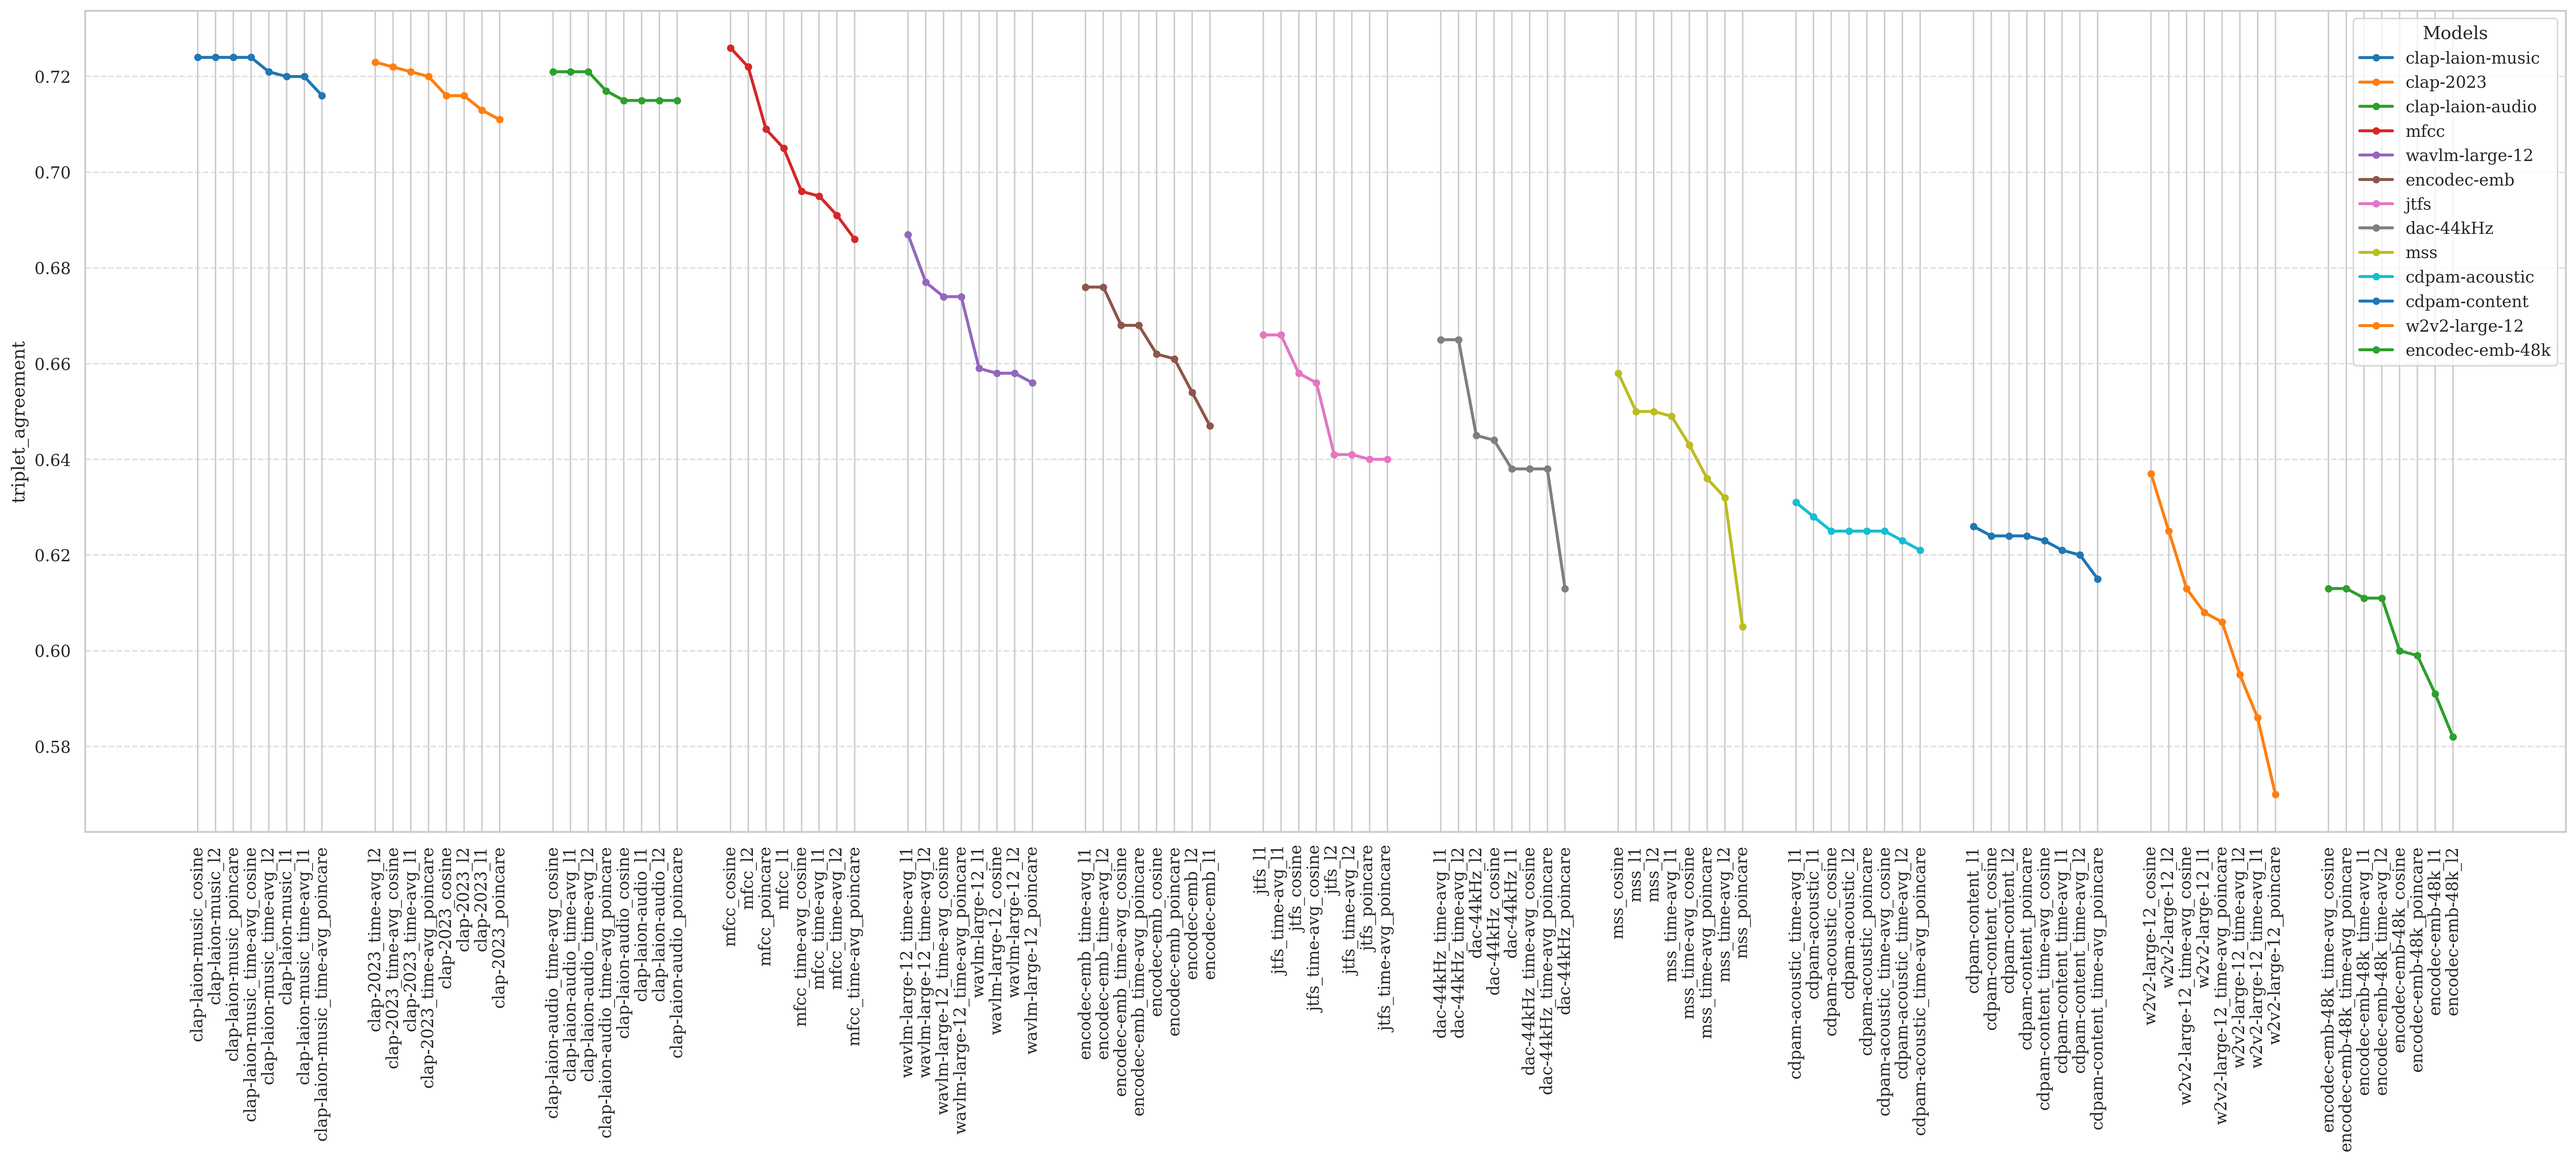
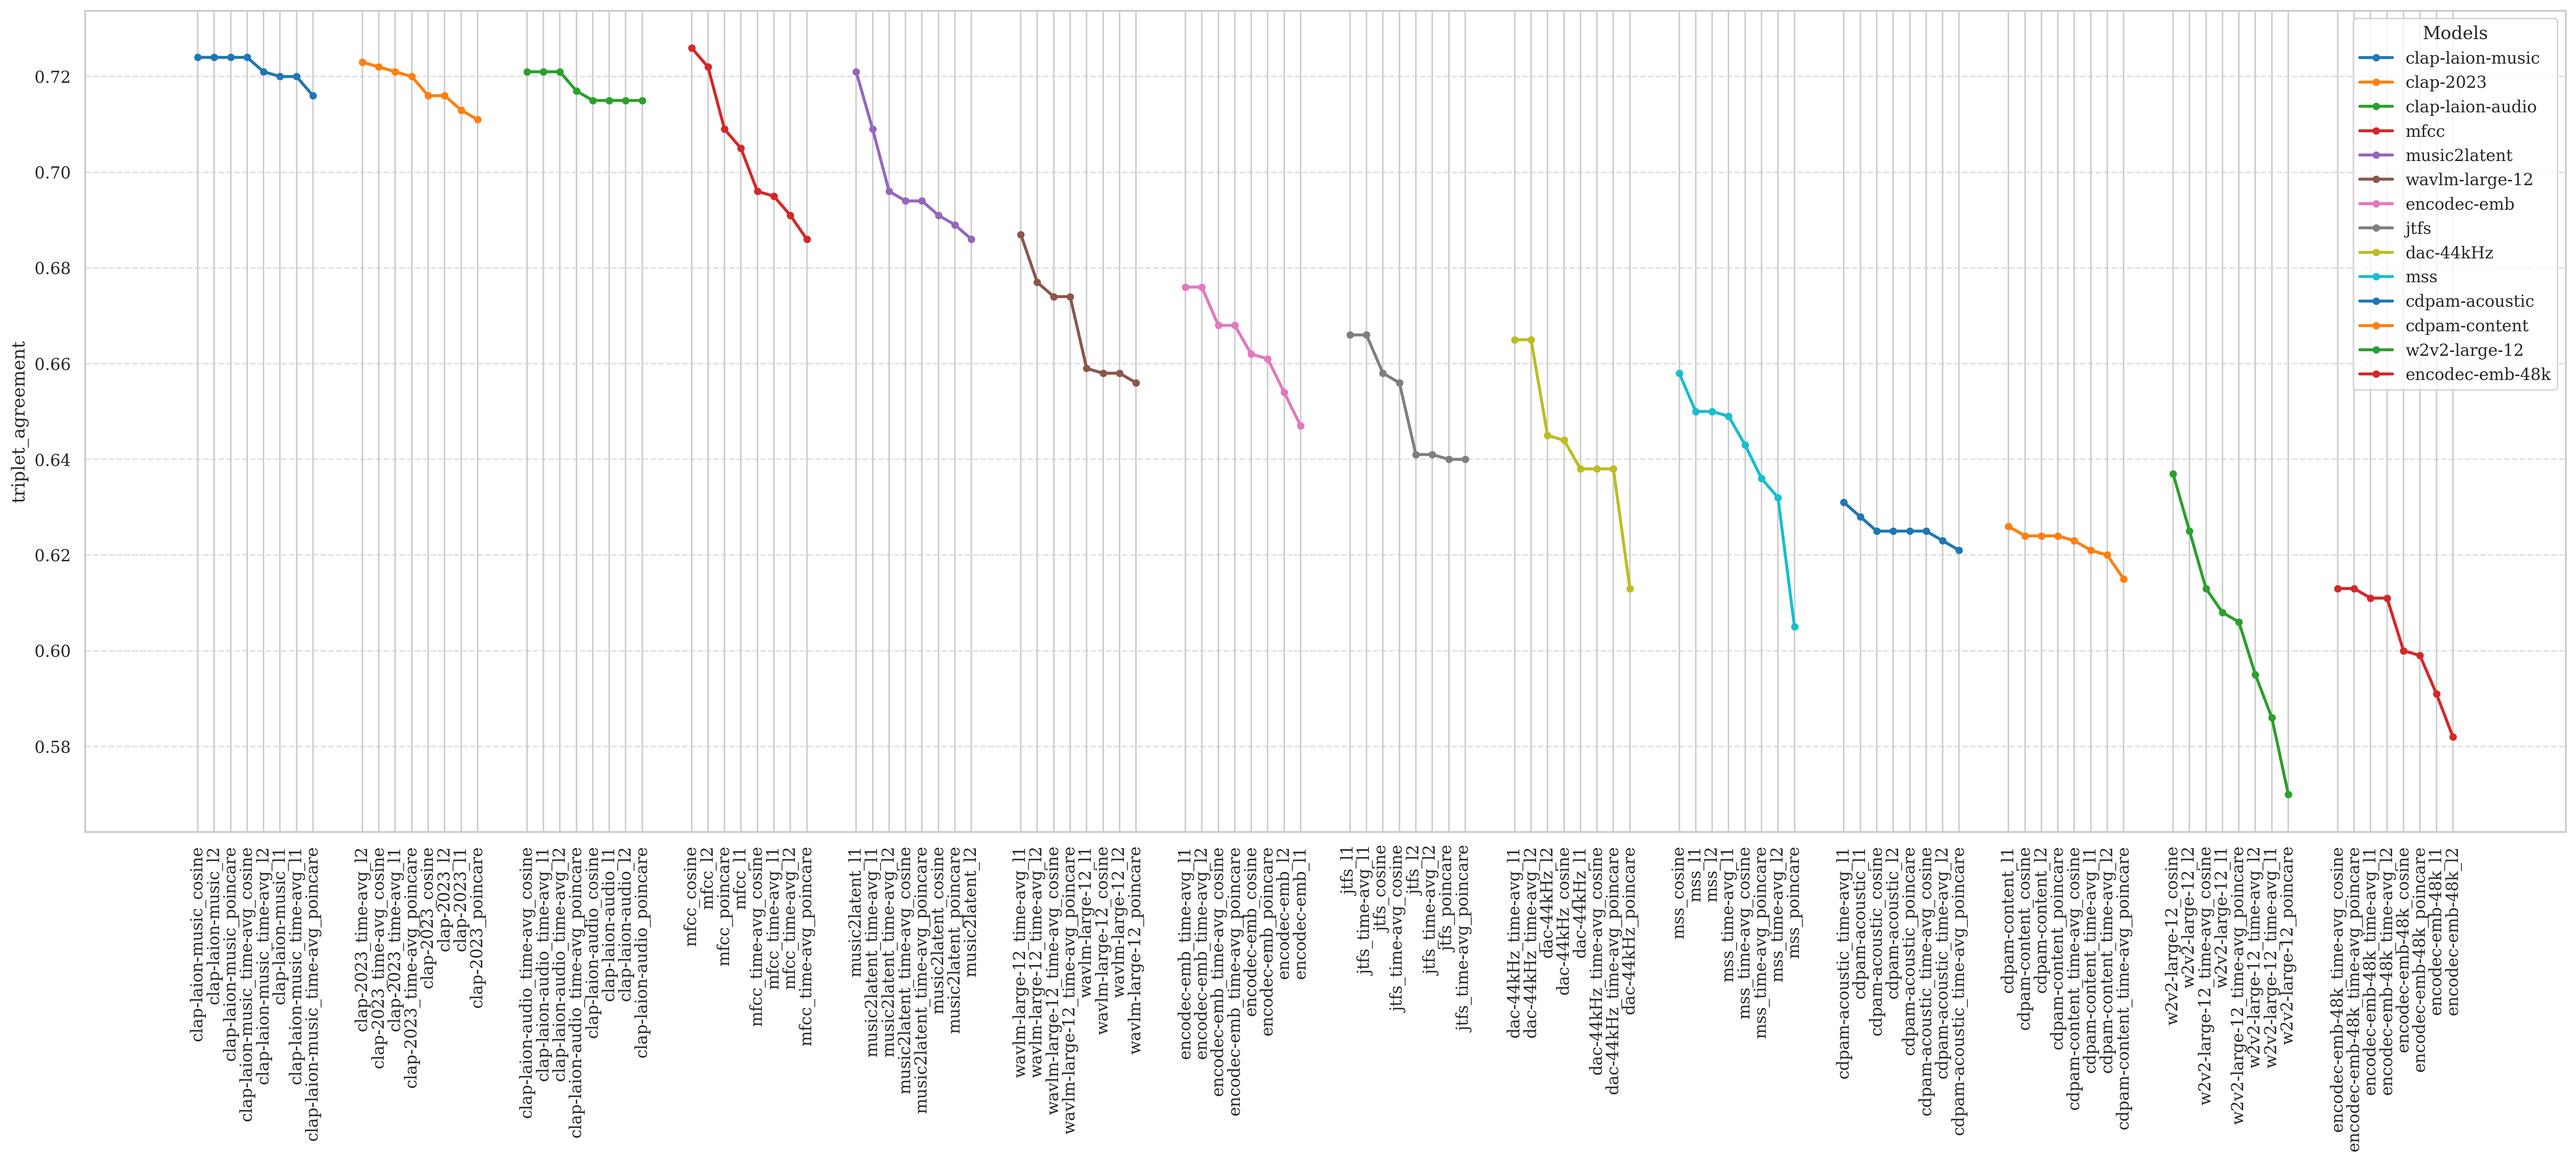
fix bugs, add music2latent eval

Changed region(s): [[0.0624, 0.0, 0.9985, 0.9673]]

diff --git a/timbremetrics/utils.py b/timbremetrics/utils.py
@@ -58,27 +58,27 @@ class AudioLoader:
             audio_dataset.append(
                 {"file": audio_file, "audio": audio, "sample_rate": sr}
             )
-            if self.pad_to_max_duration:
-                assert self.fixed_duration is None
-                max_sample_num = max([x["audio"].shape[-1] for x in audio_dataset])
-                for x in audio_dataset:
-                    padding = max_sample_num - x["audio"].shape[-1]
-                    if isinstance(x["audio"], torch.Tensor):
-                        x["audio"] = F.pad(x["audio"], (0, padding))
-                    elif isinstance(x["audio"], np.ndarray):
-                        assert self.fadtk_model is not None
-                        pad_width = [(0, 0)] * (x["audio"].ndim - 1) + [(0, padding)]
-                        x["audio"] = np.pad(x["audio"], pad_width)
-                    else:
-                        assert self.fadtk_model is not None
-                        # for descript audio codec
-                        from audiotools import AudioSignal
+        if self.pad_to_max_duration:
+            assert self.fixed_duration is None
+            max_sample_num = max([x["audio"].shape[-1] for x in audio_dataset])
+            for x in audio_dataset:
+                padding = max_sample_num - x["audio"].shape[-1]
+                if isinstance(x["audio"], torch.Tensor):
+                    x["audio"] = F.pad(x["audio"], (0, padding))
+                elif isinstance(x["audio"], np.ndarray):
+                    assert self.fadtk_model is not None
+                    pad_width = [(0, 0)] * (x["audio"].ndim - 1) + [(0, padding)]
+                    x["audio"] = np.pad(x["audio"], pad_width)
+                else:
+                    assert self.fadtk_model is not None
+                    # for descript audio codec
+                    from audiotools import AudioSignal
 
-                        assert isinstance(x["audio"], AudioSignal)
-                        assert isinstance(x["audio"].audio_data, torch.Tensor)
-                        x["audio"].audio_data = F.pad(
-                            x["audio"].audio_data, (0, padding)
-                        )
+                    assert isinstance(x["audio"], AudioSignal)
+                    assert isinstance(x["audio"].audio_data, torch.Tensor)
+                    x["audio"].audio_data = F.pad(
+                        x["audio"].audio_data, (0, padding)
+                    )
         return audio_dataset
 
     def _load_one_audio_file(self, dataset, audio_file):

diff --git a/examples/evaluate_music2latent.py b/examples/evaluate_music2latent.py
@@ -1,0 +1,24 @@
+import os
+from music2latent import EncoderDecoder
+
+from timbremetrics.metrics import TimbreMetric
+from timbremetrics.utils import print_results, write_results_to_yaml
+from timbremetrics.paths import BASE_DIR
+
+out_file = os.path.join(os.path.dirname(BASE_DIR), "examples/results.yaml")
+
+codec = EncoderDecoder()
+
+# pad_to_max_duration can not satisfy the minimum duration requirement of the model
+# so fixed_duration is used instead
+metric = TimbreMetric(model=codec, fixed_duration=2.0)
+
+m2l = lambda x: codec.encode(x, extract_features=True)
+res = metric(m2l)
+print_results('music2latent', res)
+write_results_to_yaml(out_file, 'music2latent', res)
+
+avg_m2l = lambda x: codec.encode(x, extract_features=True).mean(dim=-1)
+res = metric(avg_m2l)
+print_results('time-avg_music2latent', res)
+write_results_to_yaml(out_file, 'time-avg_music2latent', res)

diff --git a/timbremetrics/metrics.py b/timbremetrics/metrics.py
@@ -144,6 +144,8 @@ class TimbreMetric(nn.Module):
                 first_param = next(model.parameters())
                 dtype = first_param.dtype
                 device = first_param.device
+        if hasattr(model, "device"):
+            device = model.device
         return device, dtype
 
     def _retrieve_dissim_info(self):
@@ -190,7 +192,7 @@ class TimbreMetric(nn.Module):
                         embedding, dim=0
                     )  # (n_frames, n_features) -> (n_features)
             else:
-                embedding = model(audio)  # audio shape (1, n_samples)
+                embedding = model(audio).float()  # audio shape (1, n_samples)
                 assert isinstance(embedding, Tensor)
             embedding = embedding.flatten()
             embeddings.append(embedding)
